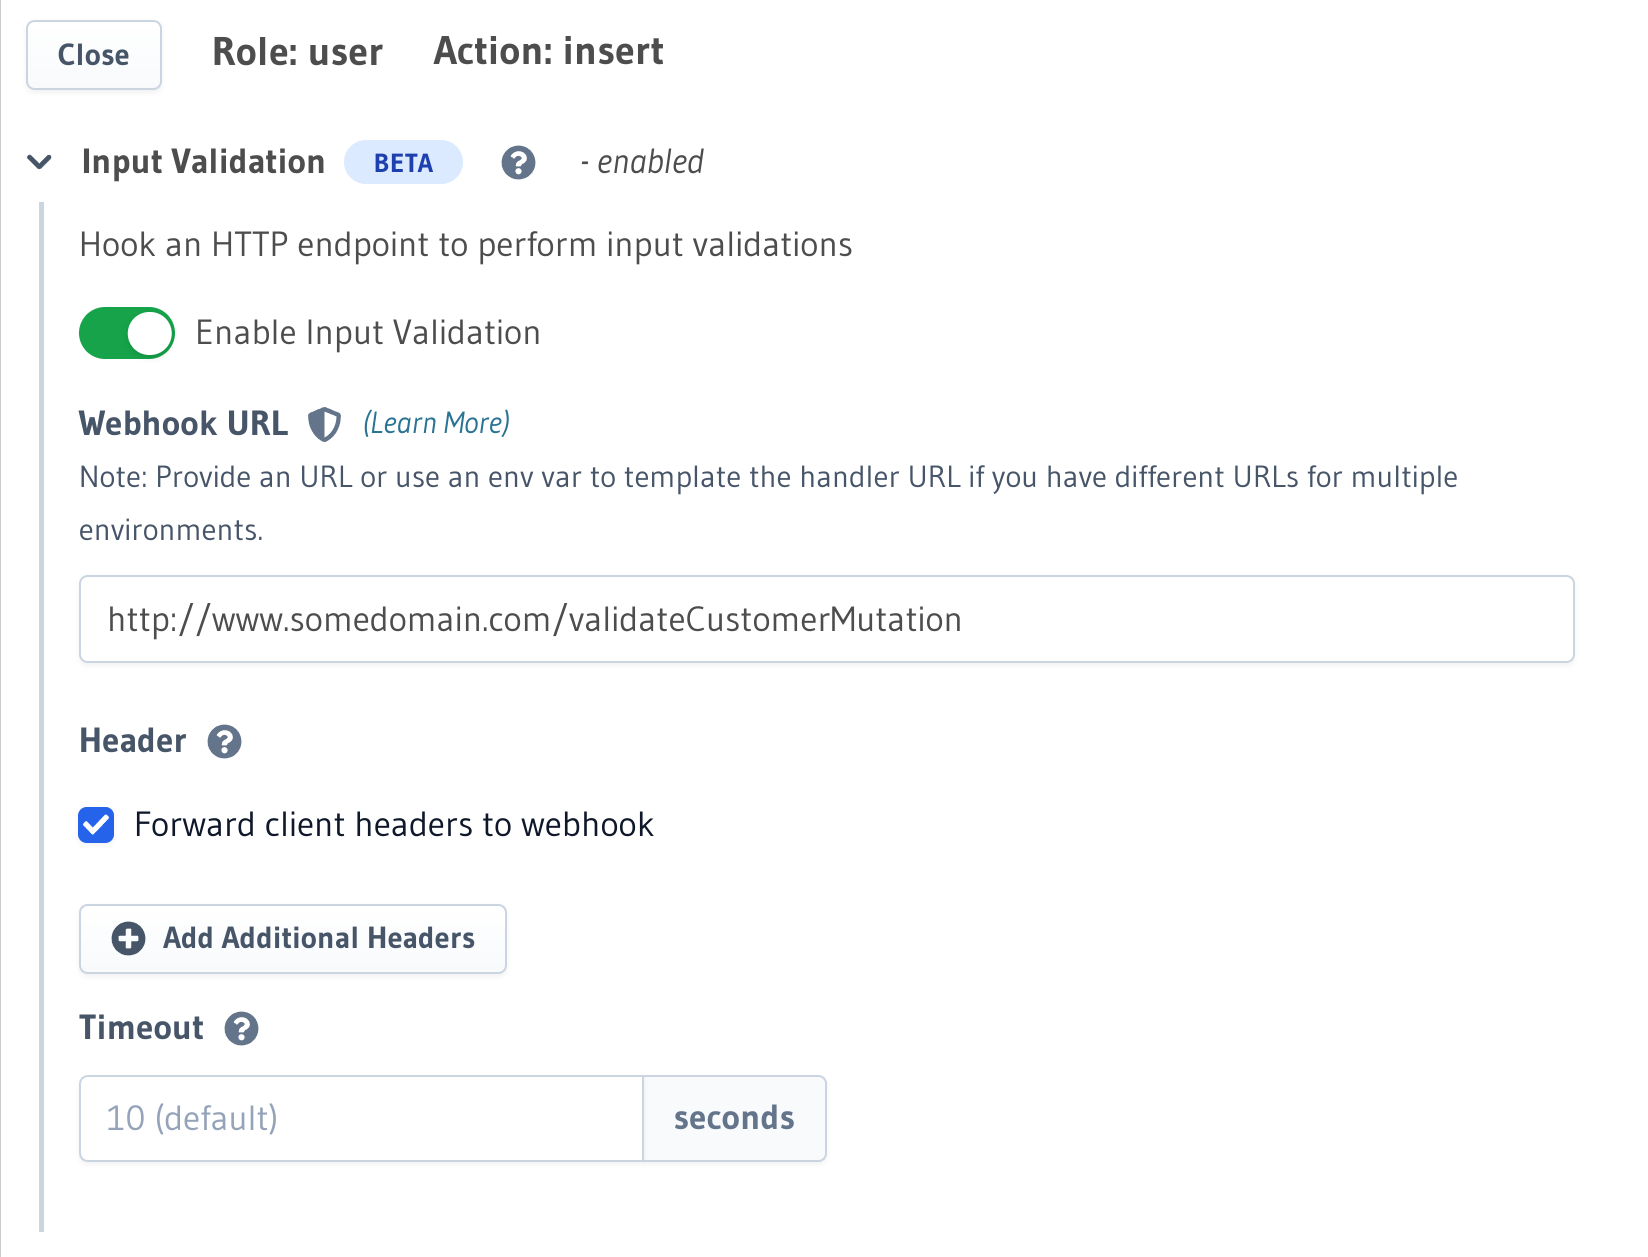
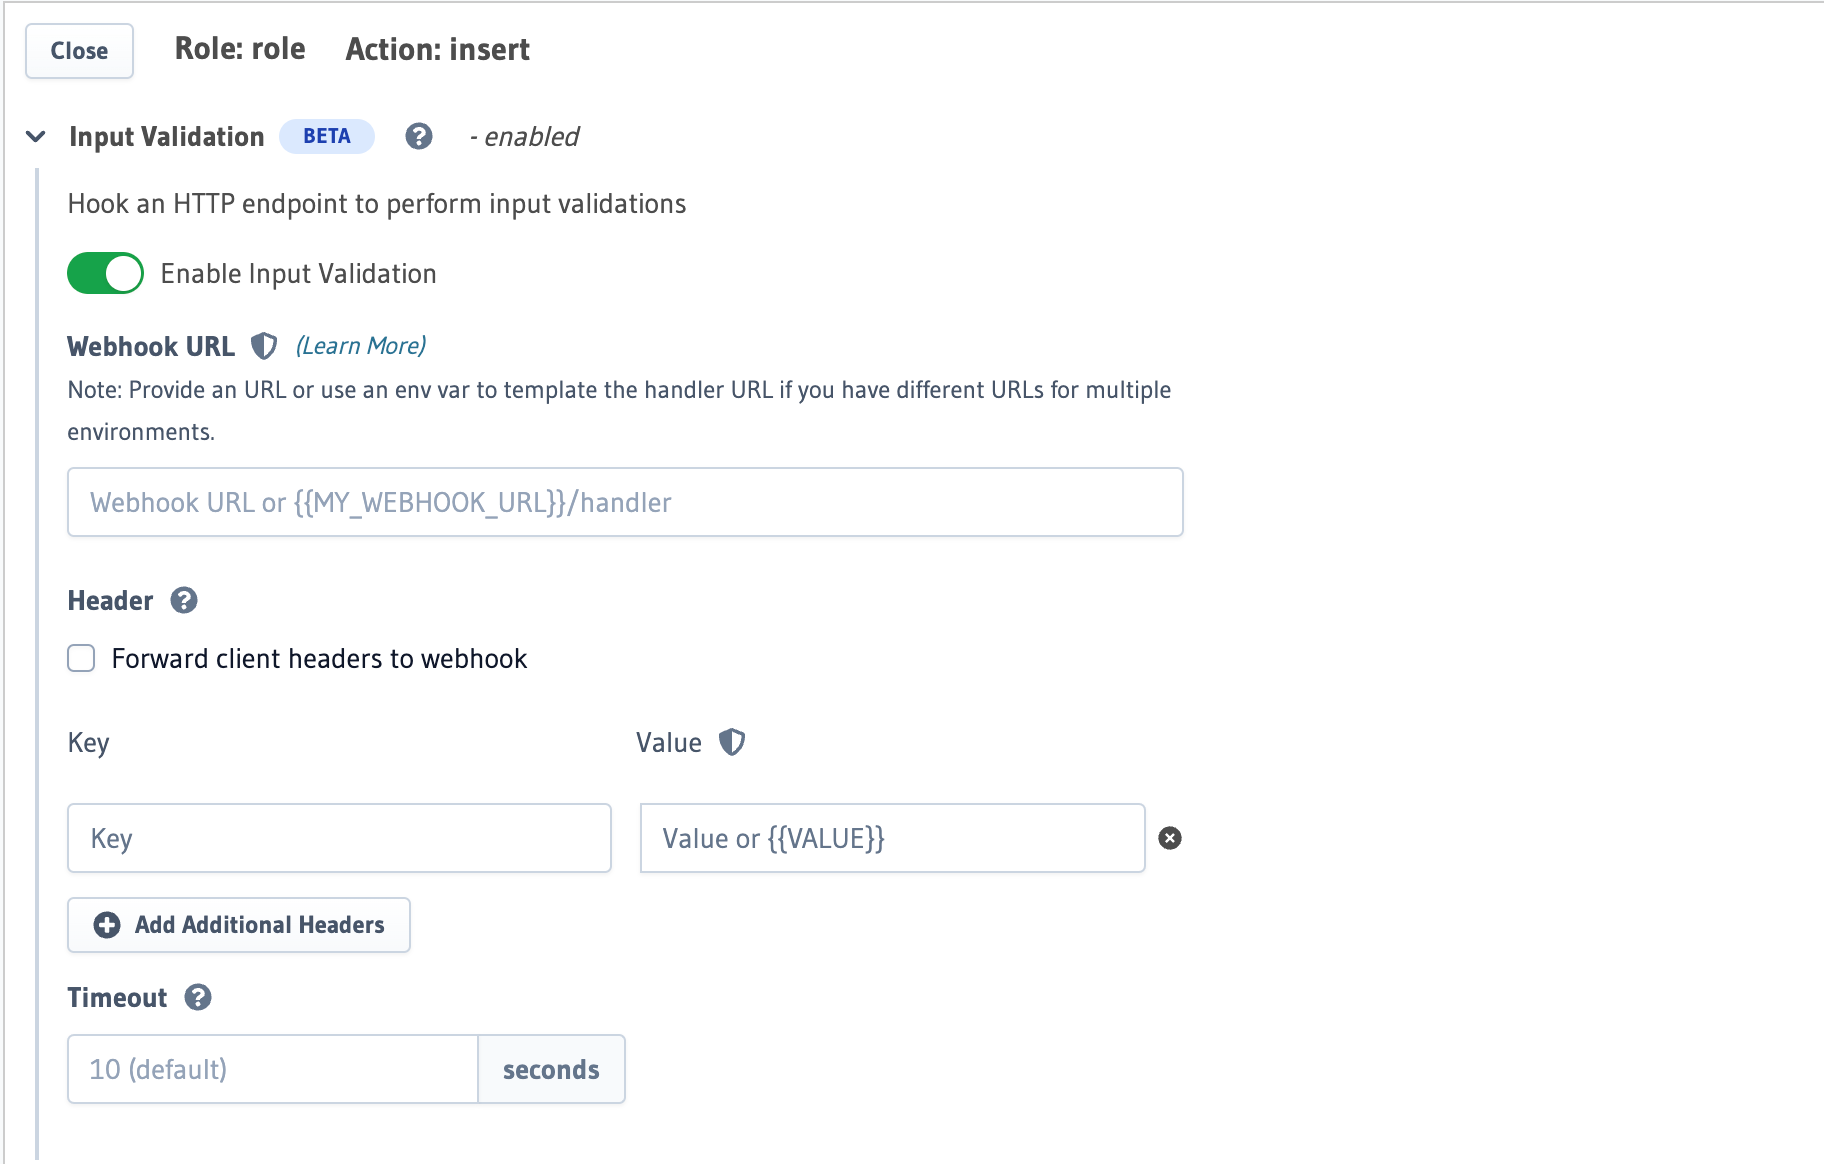
console: fix headers for mutation input validation
PR-URL: https://github.com/hasura/graphql-engine-mono/pull/9898
GitOrigin-RevId: 4e1a36b498c65a6ad9bcbe98a1dd9e87f288ac06

diff --git a/frontend/libs/console/legacy-ce/src/lib/new-components/RequestHeader/RequestHeader.tsx b/frontend/libs/console/legacy-ce/src/lib/new-components/RequestHeader/RequestHeader.tsx
@@ -1,0 +1,77 @@
+import React, { ReactText } from 'react';
+import { useFieldArray } from 'react-hook-form';
+import { FaPlusCircle, FaShieldAlt } from 'react-icons/fa';
+import { Button } from '../Button';
+import { RequestHeadersSchema } from './schema';
+import { KeyValue } from './components/KeyValue';
+import { IconTooltip } from '../Tooltip';
+
+export interface RequestHeadersProps {
+  name: string;
+  addButtonText?: ReactText;
+}
+
+export const RequestHeaders = (props: RequestHeadersProps) => {
+  const { name, addButtonText = 'Add' } = props;
+  const { fields, append, remove } = useFieldArray<
+    Record<string, RequestHeadersSchema>
+  >({
+    name,
+  });
+  const thereIsAtLeastOneField = fields.length > 0;
+
+  return (
+    <div>
+      {thereIsAtLeastOneField ? (
+        <>
+          <div className="grid gap-3 grid-cols-2 mb-sm">
+            <label className="block text-gray-600 font-medium mb-xs">Key</label>
+            <label className="block text-gray-600 font-medium mb-xs flex">
+              Value
+              <IconTooltip
+                message={
+                  <div>
+                    Value can be either static string or a template which can
+                    reference environment variables.
+                    <p>Example:</p>
+                    <p>Static string: "abc"</p>
+                    <p>
+                      Template with environment variables:
+                      &#123;&#123;ACTION_BASE_URL&#125;&#125;/payment" or
+                      &#123;&#123;FULL_ACTION_URL&#125;&#125;
+                    </p>
+                  </div>
+                }
+                icon={<FaShieldAlt className="h-4 text-muted cursor-pointer" />}
+              />
+            </label>
+          </div>
+
+          {fields.map((field, index) => (
+            <KeyValue
+              key={field.id}
+              fieldId={field.id}
+              fieldName={name}
+              rowIndex={index}
+              removeRow={remove}
+            />
+          ))}
+        </>
+      ) : null}
+
+      <Button
+        data-testid="add-header"
+        icon={<FaPlusCircle />}
+        onClick={() => {
+          append({
+            name: '',
+            value: '',
+          });
+        }}
+        size="sm"
+      >
+        {addButtonText}
+      </Button>
+    </div>
+  );
+};

diff --git a/frontend/libs/console/legacy-ce/src/lib/components/Services/Data/TablePermissions/InputValidation/InputValidation.tsx b/frontend/libs/console/legacy-ce/src/lib/components/Services/Data/TablePermissions/InputValidation/InputValidation.tsx
@@ -4,10 +4,10 @@ import { IconTooltip } from '../../../../../new-components/Tooltip';
 import { Switch } from '../../../../../new-components/Switch';
 import { InputField } from '../../../../../new-components/Form';
 import { FaShieldAlt } from 'react-icons/fa';
-import { RequestHeadersSelector } from '../../../../../new-components/RequestHeadersSelector';
 import { BooleanCheckbox } from './BooleanCheckbox';
 import { useFormContext } from 'react-hook-form';
 import { Badge } from '../../../../../new-components/Badge';
+import { RequestHeaders } from '../../../../../new-components/RequestHeader';
 
 export const inputValidationSchema = z.object({
   type: z.enum(['http']),
@@ -70,7 +70,10 @@ export const InputValidation = () => {
             <InputField
               learnMoreLink="https://hasura.io/docs/latest/api-reference/syntax-defs/#webhookurl"
               tooltipIcon={
-                <FaShieldAlt className="h-4 text-muted cursor-pointer" />
+                <div className="flex items-center">
+                  <p className="text-red-600 pr-xs">*</p>
+                  <FaShieldAlt className="h-4 text-muted cursor-pointer" />
+                </div>
               }
               name="definition.url"
               label="Webhook URL"
@@ -79,7 +82,7 @@ export const InputValidation = () => {
               description="Note: Provide an URL or use an env var to template the handler URL if you have different URLs for multiple environments."
             />
             <div className="mb-xs">
-              <label className="flex items-center text-gray-600 font-semibold mb-xs">
+              <label className="flex items-center text-gray-600 font-semibold">
                 Header
                 <IconTooltip message="Configure headers for the request to the webhook" />
               </label>
@@ -89,7 +92,7 @@ export const InputValidation = () => {
                   text="Forward client headers to webhook"
                 />
               </div>
-              <RequestHeadersSelector
+              <RequestHeaders
                 name="definition.headers"
                 addButtonText="Add Additional Headers"
               />

diff --git a/frontend/apps/console-ce-e2e/src/e2e/table-permission-input-validation/input-validation.test.ts b/frontend/apps/console-ce-e2e/src/e2e/table-permission-input-validation/input-validation.test.ts
@@ -77,8 +77,8 @@ describe('Create a insert type table permission with input validation', () => {
     cy.findByText('Forward client headers to webhook').click();
     cy.get('[name="definition.timeout"]').clear().type('40');
     cy.findByRole('button', { name: 'Add Additional Headers' }).click();
-    cy.findByPlaceholderText('Key...').type('x-hasura-user-id');
-    cy.findByPlaceholderText('Value...').type('1234');
+    cy.findByPlaceholderText('Key').type('x-hasura-user-id');
+    cy.findByPlaceholderText('Value or {{Environment_Variable}}').type('1234');
 
     // --------------------
     cy.log('**--- Click to Save Permission');
@@ -174,8 +174,8 @@ describe('Create a update type table permission with input validation', () => {
     cy.findByText('Forward client headers to webhook').click();
     cy.get('[name="definition.timeout"]').clear().type('40');
     cy.findByRole('button', { name: 'Add Additional Headers' }).click();
-    cy.findByPlaceholderText('Key...').type('x-hasura-user-id');
-    cy.findByPlaceholderText('Value...').type('1234');
+    cy.findByPlaceholderText('Key').type('x-hasura-user-id');
+    cy.findByPlaceholderText('Value or {{Environment_Variable}}').type('1234');
 
     // --------------------
     cy.log('**--- Click to Save Permission');
@@ -271,8 +271,8 @@ describe('Create a delete type table permission with input validation', () => {
     cy.findByText('Forward client headers to webhook').click();
     cy.get('[name="definition.timeout"]').clear().type('40');
     cy.findByRole('button', { name: 'Add Additional Headers' }).click();
-    cy.findByPlaceholderText('Key...').type('x-hasura-user-id');
-    cy.findByPlaceholderText('Value...').type('1234');
+    cy.findByPlaceholderText('Key').type('x-hasura-user-id');
+    cy.findByPlaceholderText('Value or {{Environment_Variable}}').type('1234');
 
     // --------------------
     cy.log('**--- Click to Save Permission');

diff --git a/frontend/libs/console/legacy-ce/src/lib/new-components/RequestHeader/components/KeyValue.tsx b/frontend/libs/console/legacy-ce/src/lib/new-components/RequestHeader/components/KeyValue.tsx
@@ -1,0 +1,53 @@
+import React from 'react';
+import { RiCloseCircleFill } from 'react-icons/ri';
+import { useFormContext } from 'react-hook-form';
+
+interface Props {
+  fieldId: string;
+  fieldName: string;
+  rowIndex: number;
+  removeRow: (index?: number | number[]) => void;
+}
+
+const borderStyle =
+  'border-gray-300 hover:border-gray-400 focus:border-yellow-400';
+const ringStyle = 'focus:ring-2 focus:ring-yellow-200';
+
+export const KeyValue = (props: Props) => {
+  const { fieldId, fieldName, rowIndex, removeRow } = props;
+  const keyLabel = `${fieldName}[${rowIndex}].name`;
+  const valueLabel = `${fieldName}[${rowIndex}].value`;
+  const { register } = useFormContext();
+
+  return (
+    <div className="grid gap-4 grid-cols-2 mb-sm" key={fieldId}>
+      <input
+        type="text"
+        className={`w-full block h-10 shadow-sm rounded ${borderStyle} ${ringStyle}`}
+        placeholder="Key"
+        {...register(keyLabel)}
+        aria-label={keyLabel}
+        data-test={`header-test${rowIndex}-key`}
+      />
+      <div className="flex rounded">
+        <input
+          {...register(valueLabel)}
+          aria-label={valueLabel}
+          data-test={`header-test${rowIndex}-value`}
+          type="text"
+          className={`flex-1 min-w-0 h-10 shadow-sm block w-full px-3 py-2 rounded-r ${borderStyle} ${ringStyle}`}
+          placeholder="Value or {{Environment_Variable}}"
+        />
+        <div className="col-span-1 flex items-center justify-center pl-1.5">
+          <RiCloseCircleFill
+            onClick={() => {
+              removeRow(rowIndex);
+            }}
+            className="cursor-pointer"
+            data-test={`delete-header-${rowIndex}`}
+          />
+        </div>
+      </div>
+    </div>
+  );
+};

diff --git a/frontend/libs/console/legacy-ce/src/lib/components/Services/Data/TablePermissions/InputValidation/InputValidation.stories.tsx b/frontend/libs/console/legacy-ce/src/lib/components/Services/Data/TablePermissions/InputValidation/InputValidation.stories.tsx
@@ -46,6 +46,9 @@ Base.play = async ({ canvasElement }: any) => {
   // --------------------------------------------------
   // Step 6: add headers
   await userEvent.click(canvas.getByText('Add Additional Headers'));
-  await userEvent.type(canvas.getByPlaceholderText('Key...'), 'x-hasura-name');
-  await userEvent.type(canvas.getByPlaceholderText('Value...'), 'hasura_user');
+  await userEvent.type(canvas.getByPlaceholderText('Key'), 'x-hasura-name');
+  await userEvent.type(
+    canvas.getByPlaceholderText('Value or {{Environment_Variable}}'),
+    'hasura_user'
+  );
 };

diff --git a/frontend/libs/console/legacy-ce/src/lib/new-components/RequestHeader/schema.ts b/frontend/libs/console/legacy-ce/src/lib/new-components/RequestHeader/schema.ts
@@ -1,0 +1,10 @@
+import { z } from 'zod';
+
+export const requestHeadersSchema = z.array(
+  z.object({
+    name: z.string(),
+    value: z.string(),
+  })
+);
+
+export type RequestHeadersSchema = z.infer<typeof requestHeadersSchema>;

diff --git a/frontend/libs/console/legacy-ce/src/lib/new-components/RequestHeader/index.ts b/frontend/libs/console/legacy-ce/src/lib/new-components/RequestHeader/index.ts
@@ -1,0 +1,2 @@
+export * from './RequestHeader';
+export { requestHeadersSchema } from './schema';
